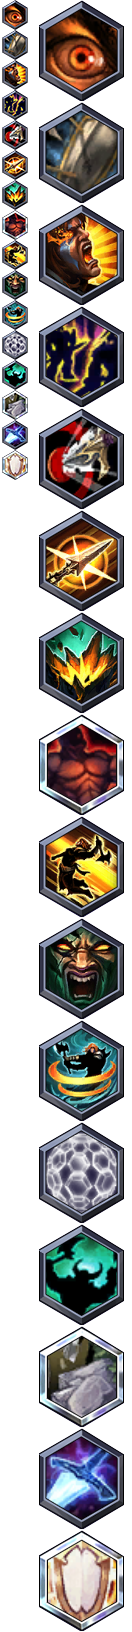
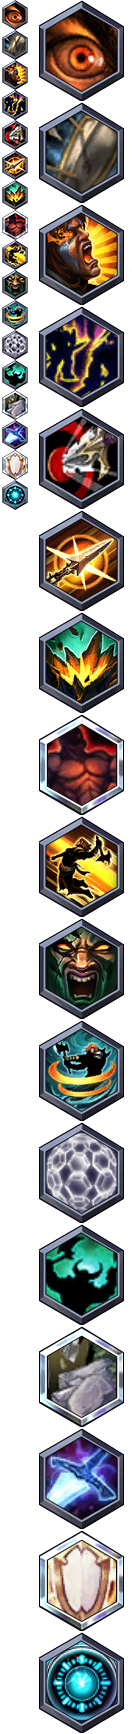
fixing sonya

diff --git a/public/css/style.css b/public/css/style.css
@@ -5260,6 +5260,7 @@ p.white { color: #FFF; }
 .talents-icon.sonya.focused-attack { background-position: 0px -120px; }
 .talents-icon.sonya.boon-of-the-ancients { background-position: 0px -150px; }
 .talents-icon.sonya.furious-blow { background-position: 0px -180px; }
+.talents-icon.sonya.follow-through { background-position: 0px -480px; }
 /* Tier 3 */
 .talents-icon.sonya.poisoned-spear { background-position: 0px -150px; }
 .talents-icon.sonya.shattered-ground { background-position: 0px -180px; }
@@ -5296,6 +5297,7 @@ p.white { color: #FFF; }
 .talents-icon.sonya.large.focused-attack { background-position: -30px -408px; }
 .talents-icon.sonya.large.boon-of-the-ancients { background-position: -30px -510px; }
 .talents-icon.sonya.large.furious-blow { background-position: -30px -612px; }
+.talents-icon.sonya.large.follow-through { background-position: 0px -1632px; }
 /* Tier 3 */
 .talents-icon.sonya.large.poisoned-spear { background-position: -30px -510px; }
 .talents-icon.sonya.large.shattered-ground { background-position: -30px -612px; }
